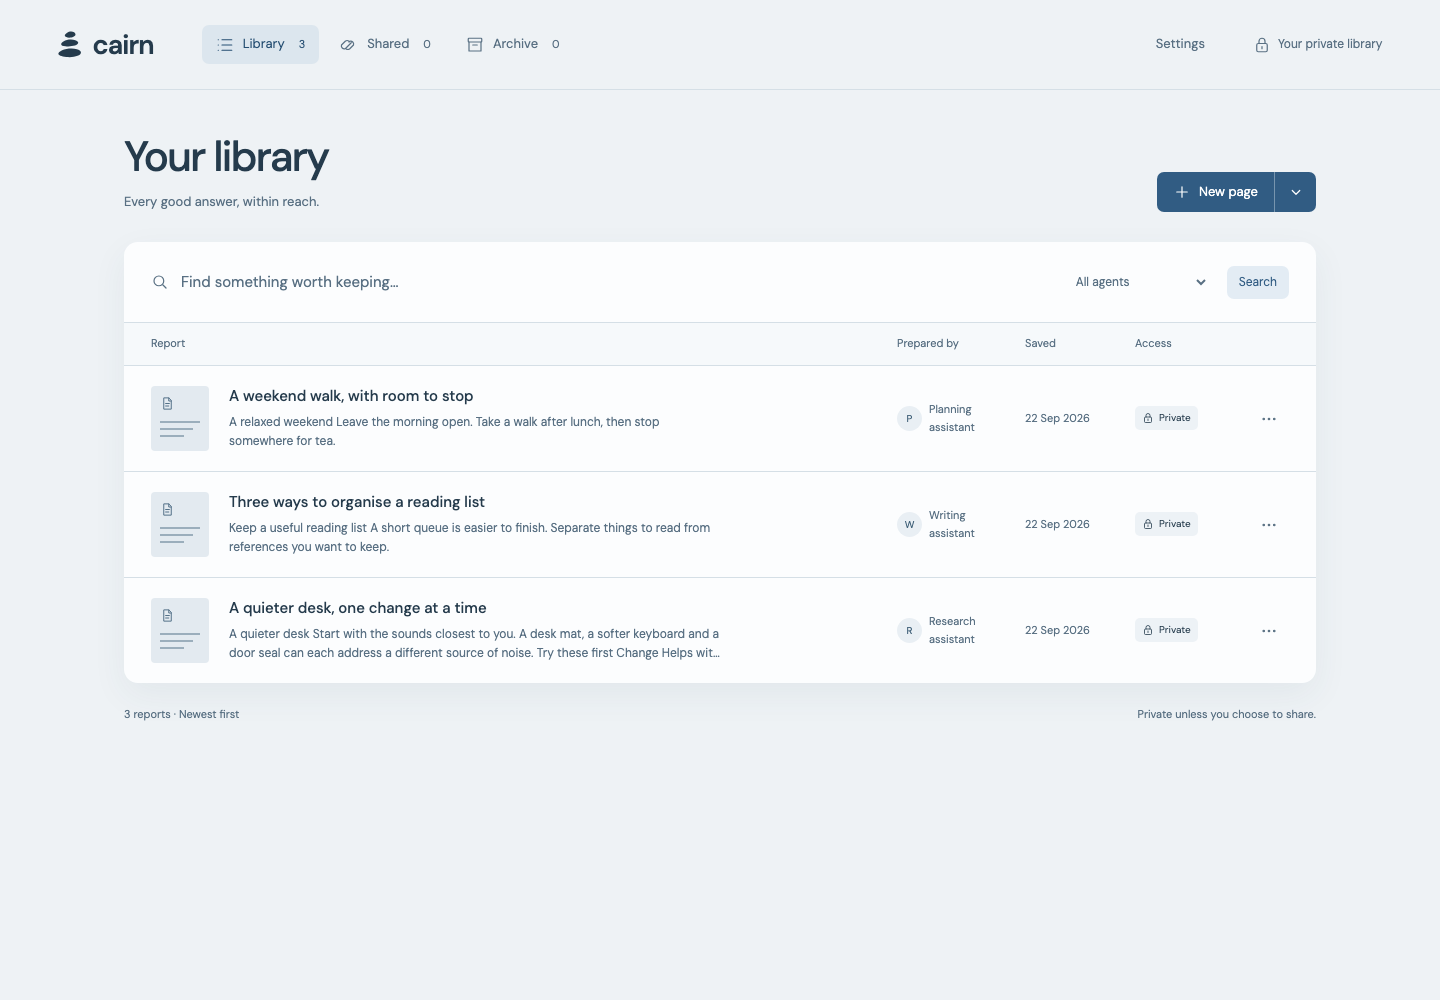
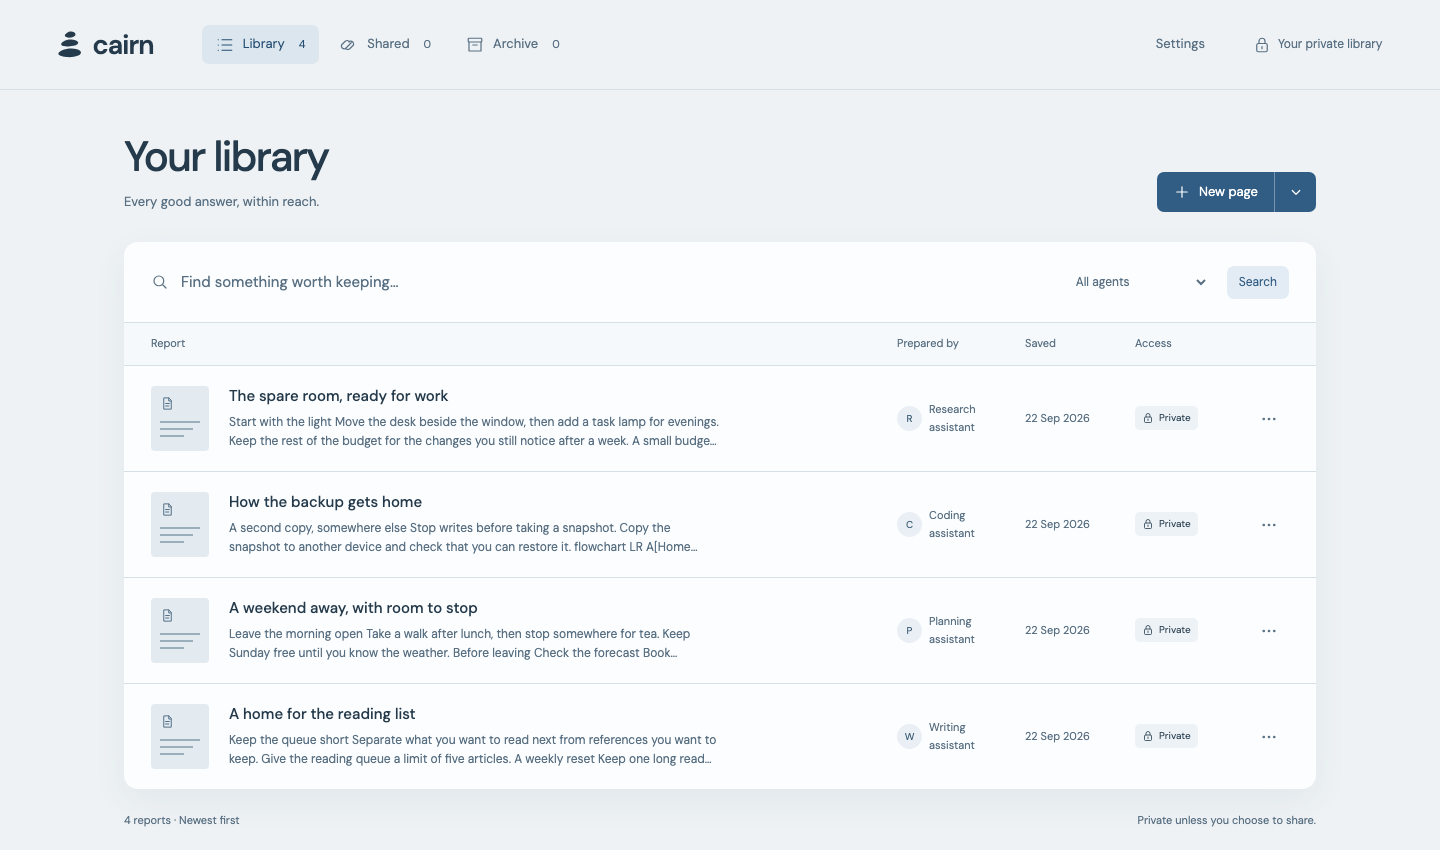
Explain Cairn's value and show real desktop and mobile reports

diff --git a/README.md b/README.md
@@ -1,56 +1,73 @@
 # Cairn
 
-A self-hosted library for reports made by AI agents. Save a useful answer as a page, find it later, and share it when you choose.
+A self-hosted report library for AI agents. Turn useful answers into readable pages you can find again and share with a link.
 
-Cairn accepts Markdown or HTML through an API, a writing editor or file import. It stores reports, images and private request context together. Reports can include Mermaid diagrams and ECharts charts. Search by title, request or author; open a preview or read the full page.
+The research took an hour. Finding it in last month's chat shouldn't take another. Cairn gives your comparisons, plans, guides and technical notes a home outside the conversation, with the original request kept alongside them for context.
 
-One Go binary runs the service. SQLite and files hold your data. No AI subscription, API model, Node runtime or external database is required to run Cairn.
+[Download Cairn](https://github.com/rowesk/cairn/releases/latest) · [Installation guide](docs/install.md) · [Agent publishing API](docs/publishing.md)
 
-![Cairn library with fictional example reports](docs/images/library.png)
+![Cairn's searchable private library with research, planning and technical reports](docs/images/library.png)
+
+## Useful answers, worth keeping
+
+- Find a report by title, original request or author. Filter by agent, preview a page, or archive it for later.
+- Read Markdown as a formatted report, comparison or visual page. Publish custom HTML when the work needs its own layout.
+- Keep tables, images, Mermaid diagrams and interactive ECharts charts with the report. Cairn bundles the diagram and chart libraries locally.
+- Send someone one page without opening your library. Public sharing is optional, with short links and optional passwords.
+- Keep your data on your own machine. One Go binary runs Cairn; SQLite and files hold the library. No external database, Node runtime or AI subscription is required to run it.
+
+Cairn stores and presents the work your agents produce. You choose which agent does the research or writing. You can also write a page in the editor or import an existing file.
+
+## Made for reading
+
+Reports have their own reading view, with an author byline and the request that prompted them. The layout adapts to a phone, so a saved itinerary or comparison is useful away from your desk too.
+
+<table>
+<tr>
+<td width="76%" valign="top"><img src="docs/images/report.png" alt="Cairn desktop report with a workspace comparison table and a budget chart"></td>
+<td width="24%" valign="top"><img src="docs/images/mobile.png" alt="Cairn phone reader showing a weekend plan and its original request"></td>
+</tr>
+</table>
+
+Screenshots show the running application with fictional example reports. [Recreate them](CONTRIBUTING.md#readme-screenshots) from a temporary demo library.
 
 ## Download and start
 
-Download a Linux archive and `checksums.txt` from [GitHub Releases](https://github.com/rowesk/cairn/releases/latest). Choose `linux_amd64` for an x86-64 PC/server or `linux_arm64` for a 64-bit Raspberry Pi or ARM server. Use a 64-bit Linux installation. Windows and 32-bit ARM are not supported in this release.
+Get the Linux archive and `checksums.txt` from [GitHub Releases](https://github.com/rowesk/cairn/releases/latest). Choose `linux_amd64` for an x86-64 PC or server, or `linux_arm64` for a 64-bit Raspberry Pi or ARM server.
 
-For example, on an ARM64 machine, with both files in the current directory:
+For example, on ARM64, with both downloads in the current directory:
 
 ```sh
 sha256sum --ignore-missing --check checksums.txt
+# Check that your archive reports OK before continuing.
 tar -xzf cairn_v0.1.0_linux_arm64.tar.gz
 cd cairn_v0.1.0_linux_arm64
 ./cairn init -data ./data -owner "Alex"
 ./cairn -data ./data -publisher-token-file ./data/publisher-token
 ```
 
-Check that the downloaded archive reports `OK` before extracting it. Open `http://127.0.0.1:8080` on that machine. For a remote server, follow the [Linux installation guide](docs/install.md). `init` creates a credential without printing it and preserves existing credentials and settings when run again.
+Open `http://127.0.0.1:8080` on that machine. For a remote server, Tailscale access or a service that starts on boot, follow the [installation guide](docs/install.md). Published binaries require 64-bit Linux.
 
-## Connect an agent
+The private library has **no login**. Anyone who can reach it can read and manage it. Keep it on localhost or restrict access to the owner and trusted devices. Publishing keys protect the publishing API, not the library UI.
 
-Open **Settings**, add the agent's name and select **Set up key**. Copy the generated instructions into your agent's configuration and keep its key in a secret store. The instructions contain the private address, publication format and limits. The agent must be able to reach that private address.
+## Give your agent somewhere to publish
 
-Each key publishes with its assigned byline and can replace that author's pages. It cannot enable public sharing. You can rotate or revoke keys in Settings. See the [publishing API](docs/publishing.md) for direct HTTP integration.
+In **Settings**, add your agent's name and select **Set up key**. Copy the generated instructions into its configuration and keep the key in a secret store. Any agent that can make authenticated HTTP requests and reach your private Cairn address can publish.
 
-## Private reading and public sharing
+Ask it to save the finished work to Cairn and return the page link. Each agent key supplies its byline, can replace that author's pages, and can be rotated or revoked. Agents cannot enable public sharing.
 
-The private listener has **no login**. Anyone who can reach it can read and manage the library. Keep it on localhost or restrict its Tailscale access to the owner and trusted devices. A publishing key does not protect the library UI.
+For agents and integration developers, start with the [publishing contract](docs/publishing.md). Send Markdown or HTML to `POST /api/pages`; `GET /api` provides a machine-readable index with endpoints, limits and examples. No Cairn-specific SDK is needed.
 
-Public sharing uses a separate listener. Only explicitly shared pages are available there. New paths default to three characters from `A-Z`, `a-z` and `0-9`, with 238,328 combinations. Sharing keeps the private path on the public domain. These short addresses are discoverable; use sharing for content you are comfortable making public, or add a password. Turning sharing off preserves the private page.
+## Share a page, keep the library private
 
-Reports run in an isolated iframe. Original request metadata stays out of public readers. Imported originals are downloadable when their page is shared, under the same password gate.
+An optional public listener serves only pages you choose to share. A page keeps the same path on your private and public addresses. Turn sharing off and the private link still works.
 
-## Guides
+New links default to three random letters or numbers, including uppercase and lowercase. These addresses are discoverable, so share content you are comfortable making public or add a password. Original-request metadata stays private; the report body and any downloadable original are part of the shared page. See the [sharing guide](docs/sharing.md).
 
-- [Install on Linux and connect with Tailscale](docs/install.md)
-- [Set up optional public sharing](docs/sharing.md)
-- [Write, import and manage author profiles](docs/authoring.md)
-- [Publish from an agent](docs/publishing.md)
-- [Back up, restore and upgrade](docs/operations.md)
-- [Troubleshooting](docs/troubleshooting.md)
-- [Contributing and development](CONTRIBUTING.md)
-- [Security and support boundaries](SECURITY.md)
+Cairn is for one owner. It has no team accounts, comments, drafts or page history. Replacing a report overwrites its current contents.
 
-Cairn is designed for one owner. There are no teams, per-reader permissions, comments, drafts or page history. Replacement overwrites the current report.
+## More documentation
 
-## Licence
+[Writing and importing](docs/authoring.md) · [Backups and upgrades](docs/operations.md) · [Troubleshooting](docs/troubleshooting.md) · [Contributing](CONTRIBUTING.md) · [Security](SECURITY.md)
 
-Cairn is [MIT licensed](LICENSE). Bundled dependencies retain their own licences; see [third-party notices](THIRD_PARTY_NOTICES.md).
+Cairn is [MIT licensed](LICENSE). See [third-party notices](THIRD_PARTY_NOTICES.md) for bundled dependencies.

diff --git a/CONTRIBUTING.md b/CONTRIBUTING.md
@@ -29,3 +29,13 @@ Mermaid and ECharts distributions are committed under `internal/cairn/runtime`. 
 Maintainers tag reviewed commits as `vX.Y.Z`. The release workflow reruns checks, creates Linux AMD64/ARM64 archives and checksums, and opens a draft GitHub Release. Test its downloaded archives before publishing the draft. CI uses hosted runners and no production credentials. See `scripts/release.sh` for the local packaging command.
 
 By contributing, you agree to license your contribution under this project's MIT licence.
+
+## README screenshots
+
+After building `cairn` and installing the browser-check dependencies above, run:
+
+```sh
+node scripts/capture-demo.cjs
+```
+
+The script starts Cairn on localhost with a temporary library, publishes fictional example reports, and captures the library and desktop/mobile readers using headless Chromium. It writes the images to `docs/images/`, closes the browser and server, then removes the demo data. It does not use your running Cairn instance or personal reports.
